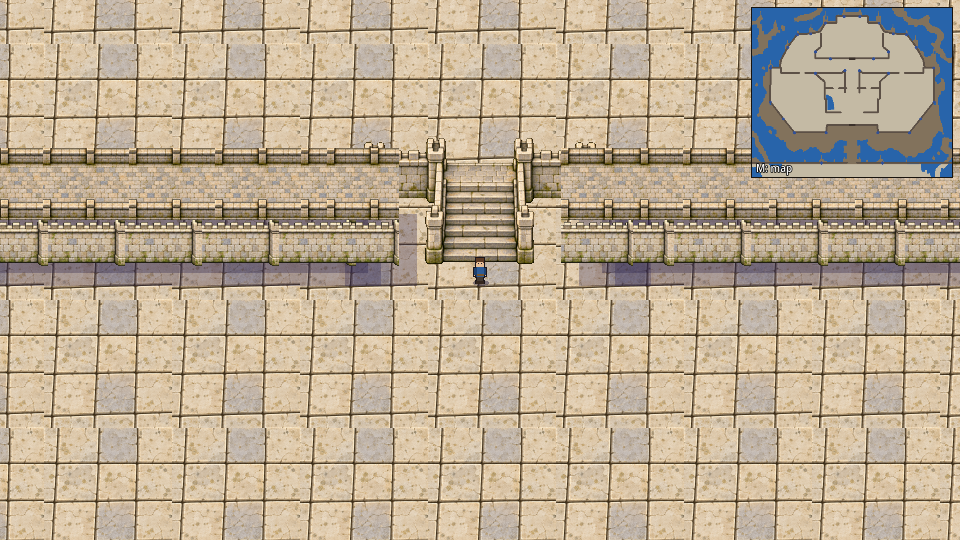
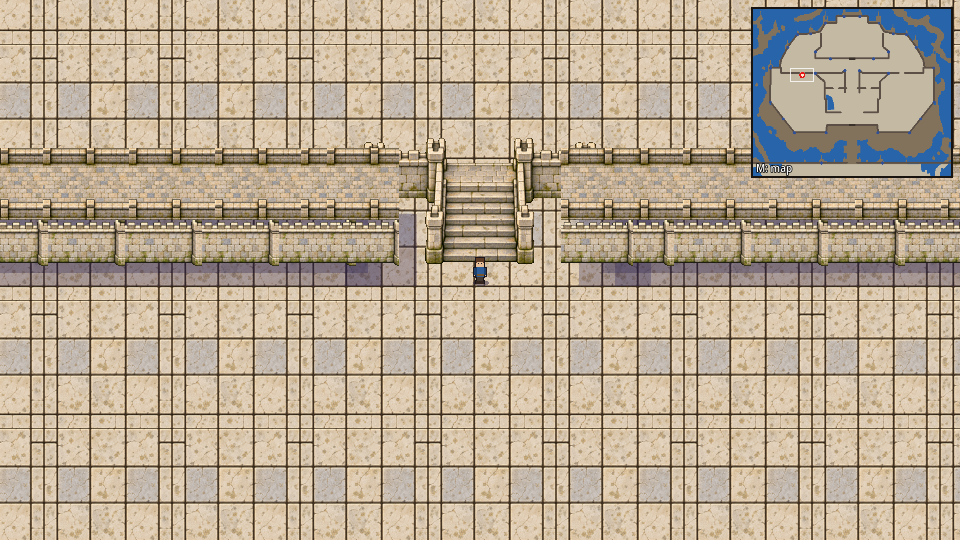
Use the new top-down floor tile (replaces the un-warped isometric slab)
Claude-Session: https://claude.ai/code/session_01GSamoHXsCumctgS8PFsM3M

diff --git a/tools/build_assets.py b/tools/build_assets.py
@@ -35,7 +35,7 @@ GW, GH = int(BP_W * SX / TILE), int(BP_H * SY / TILE)   # 522 x 441 tiles
 for f in sorted(os.listdir(KIT)):
     if f.endswith(".png"):
         shutil.copy(os.path.join(KIT, f), os.path.join(SRC, "wallkit_" + f))
-shutil.copy(FLOOR, os.path.join(SRC, "floor_tile_iso.png"))
+shutil.copy(FLOOR, os.path.join(SRC, "floor_tile.png"))
 shutil.copy(BLUE, os.path.join(SRC, "palace_blueprint.png"))
 
 
@@ -78,18 +78,12 @@ for key, fn, s in [("tower", "07_watchtower.png", TOWER_SCALE), ("gatehouse", "0
     im.save(os.path.join(OUT, key + ".png"))
     sprites[key] = [im.width, im.height]
 
-# ---------------------------------------------------------------- floor: un-warp the isometric slab to a square
-fl = np.array(Image.open(FLOOR).convert("RGBA"))
-topv, left, right = np.float32([958, 331]), np.float32([101, 936]), np.float32([1819, 946])
-c = (left + right) * 0.5
-ins = 0.985  # trim the bevel
-topv, left, right = c + (topv - c) * ins, c + (left - c) * ins, c + (right - c) * ins
-S = 1024
-M = cv2.getAffineTransform(np.float32([left, topv, right]), np.float32([[0, 0], [S, 0], [S, S]]))
-sq = cv2.warpAffine(fl, M, (S, S), flags=cv2.INTER_AREA)
-sq = cv2.resize(sq, (128, 128), interpolation=cv2.INTER_AREA)   # 8x8 tiles of 16 px, slabs ~32 px
-sq[..., 3] = 255
-Image.fromarray(sq).save(os.path.join(OUT, "floor_atlas.png"))
+# ---------------------------------------------------------------- floor: top-down slab tile
+# crop the walkable top face (drop the transparent margin and the front lip), 8x8 tiles of 16 px
+fl = Image.open(FLOOR).convert("RGBA").crop((104, 106, 1150, 1098))
+fl = fl.resize((128, 128), Image.BOX)
+a = np.array(fl); a[..., 3] = 255
+Image.fromarray(a).save(os.path.join(OUT, "floor_atlas.png"))
 
 # ---------------------------------------------------------------- generated tiles: water + rocky shore (64 px atlases)
 rng = np.random.RandomState(3)

diff --git a/README.md b/README.md
@@ -24,7 +24,7 @@ Open the folder in **Godot 4.4.x** and press F5 (main scene `scenes/Main.tscn`).
 * `tools/build_assets.py <wall_kit_dir> <floor_tile.png> <blueprint.png>` makes everything in `art/game/` and `data/layout.json`:
   * wall centre-lines traced from the blueprint (left half, mirrored - the plan is symmetric); gaps for the 2 gatehouses and the stairs;
   * ground grid (water / paved floor / rocky shore) classified from the blueprint colours, 1 cell per 16 px tile;
-  * floor tiles: the isometric slab un-warped to a flat square (8x8-tile atlas); wall face / walkway textures cut from `01_straight_wall` and `10_causeway`; towers, gatehouses, stairs, causeway sprites from the kit; Kael and the minimap image are generated.
+  * floor tiles: the supplied top-down slab tile, top face cropped (front lip removed) into an 8x8-tile atlas; wall face / walkway textures cut from `01_straight_wall` and `10_causeway`; towers, gatehouses, stairs, causeway sprites from the kit; Kael and the minimap image are generated.
 * `scripts/World.gd` builds the level at runtime: TileMapLayer ground, wall chunks (top walkway + south face, y-sorted in 64 px chunks so Kael passes behind/in front), towers, gatehouses, stairs, causeway bridge, collision (wall bands, tower/gate bases, water), shadows, Kael and the minimap.
 * Shadows: one light from the upper-left; walls, towers and gatehouses cast soft blue-violet shadows to the lower-right on a dedicated layer (no collision). Kael has a contact shadow.
 * Originals are kept untouched in `art/source/`.
